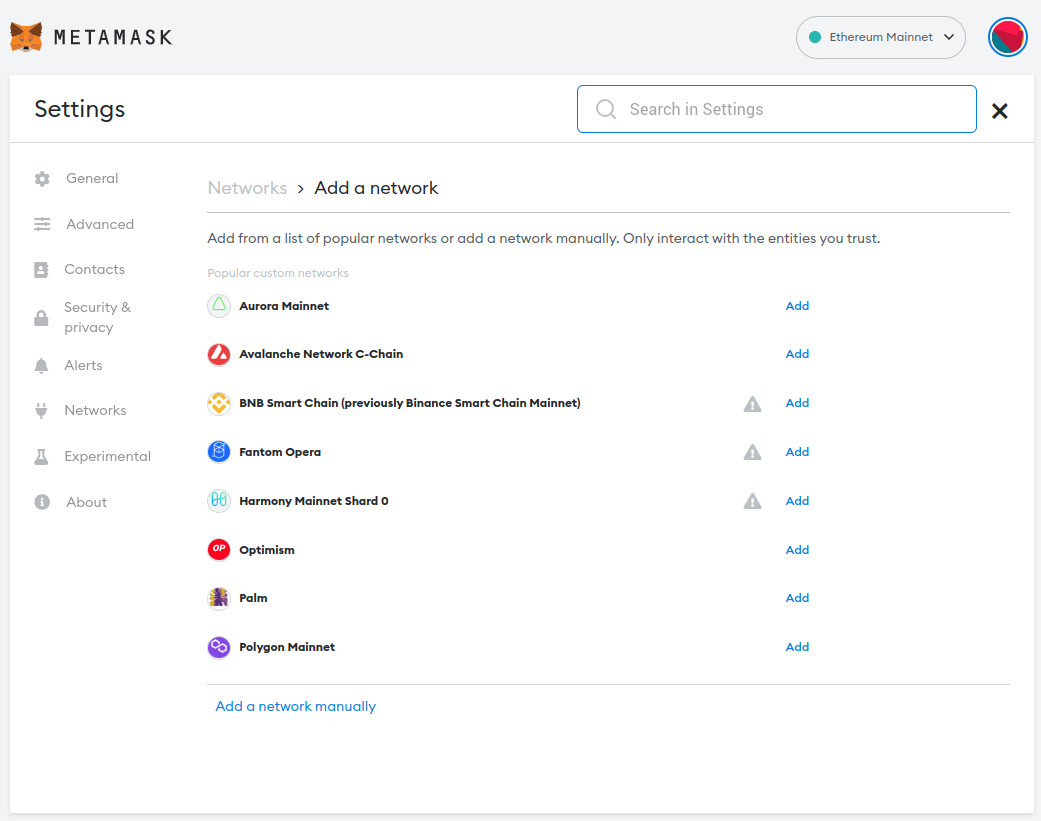
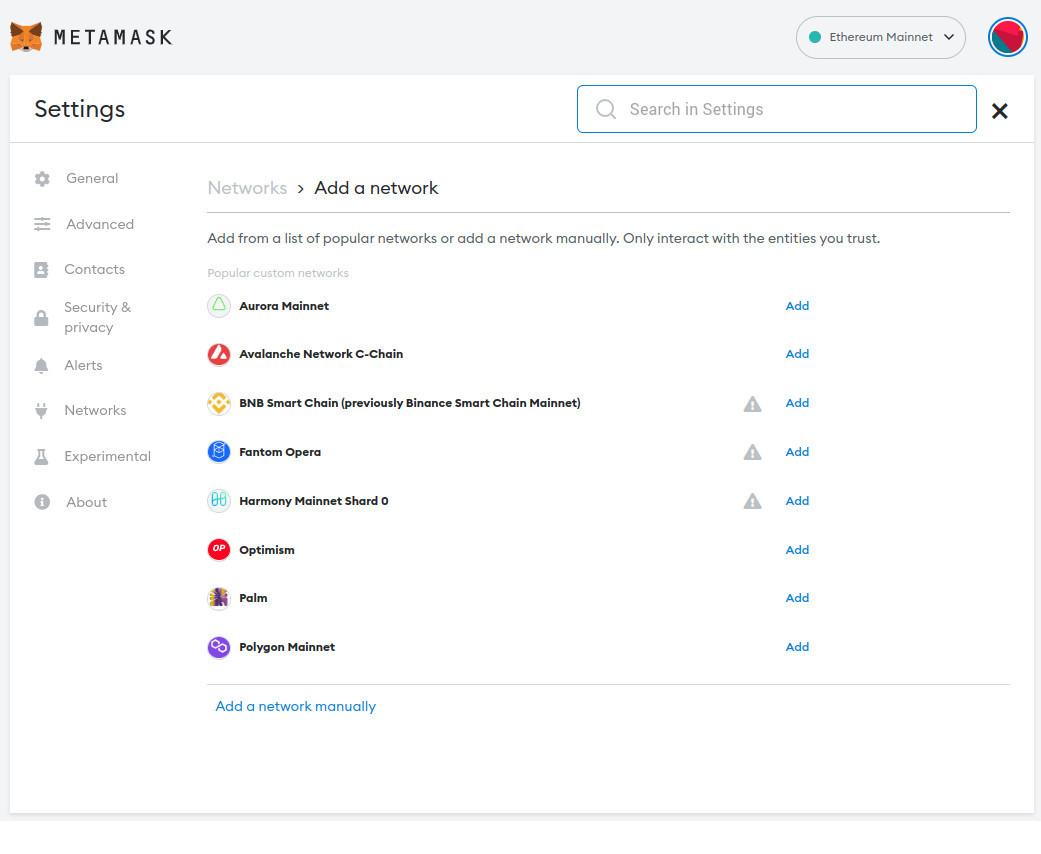
added images margin

diff --git a/docs/user-guide/using-your-node.rst b/docs/user-guide/using-your-node.rst
@@ -4,10 +4,10 @@
 Using your node
 ===============
 
-You can use your node besides contributing to the network decentralization or staking. If you 
-often send transactions to the network or need to query the API, you can configure your clients to do so.
+Besides contributing to the network decentralization, you can use your node for sending transactions  
+or to query the Ethereum API.
 
-Our image includes an **Nginx proxy** that exposes the Execution Layer RPC to make the node communication easier.
+Our image includes an **Nginx proxy** that connects to the **Execution Layer RPC** and make the node communication easier.
 
 The Nginx proxy is included in the last images. If you are running an old one make sure it is installed by 
 typing:
@@ -16,15 +16,23 @@ typing:
 
   sudo apt-get update && sudo apt-get install ethereumonarm-nginx-proxy-extras
 
+
+SSL config
+----------
+
+An SSL preconfiguration is included in the ``/etc/nginx/sites-available/ethereum-ssl.conf`` file as well. 
+It is intended to be used with your own certificate or Let's Encrypt. Use this only if you know what you 
+are doing.
+
 Sending transactions
 --------------------
 
 You can use your favourite wallet to send transactions to the network. For instance, let's 
 see how to connect **Metamask** to your node.
 
-1. Open the extension in your browser and click in the top network menu (probably showing "Ethereum Mainnet")
+1. Open the extension in your browser and click in the top network menu (probably showing "Ethereum Mainnet").
 
-2. Click **"Add Network"** buttom
+2. Click **"Add Network"** button.
 
 .. figure:: /_static/images/metamask-add-network.jpg
    :figwidth: 600px
